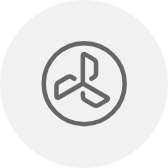
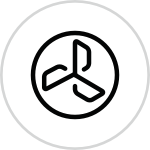
调整icon，和视觉提出的问题

diff --git a/quickapp-20190501/src/0xB1/B1_0TVN50R6/assets/index.less b/quickapp-20190501/src/0xB1/B1_0TVN50R6/assets/index.less
@@ -25,7 +25,7 @@
 				resize-mode: cover;
 			}
 			&_time{
-				// position: relative;
+				position: relative;
 				flex-direction: row;
 				justify-content: center;
 				width: 800px;
@@ -55,24 +55,25 @@
 				// margin-top: 100px;
 				text-align: center;
 				font-size: 260px;
+				// position: relative;
 			}
 			&_tag{
 				width: 60px;
 				font-size: 54px;
 				color: #FFFFFF;
-				margin-top: 120px;
-				margin-left: 20px;
-				// position: absolute;
+				top: 300px;
+				right: 160px;
+				position: absolute;
 			}
 			&_about{
 				width: 100%;
 				text-align: center;
 				font-size: 48px;
 				color: #FFFFFF;
-				margin-top: -150px;
+				margin-top: -220px;
 			}
 			&_done{
-				margin-top: 60px;
+				margin-top: 300px;
 				width: 100%;
 				text-align: center;
 				font-size: 144px;
@@ -88,7 +89,7 @@
 				text-align: center;
 				font-size: 54px;
 				color: #FFFFFF;
-				margin-top: 140px;
+				margin-top: 200px;
 			}
 			&_mode{
 				width: 100%;
@@ -101,12 +102,13 @@
 	}
 	.b0_ctr{
 		width: 100%;
-		height: 350px;
+		height: 342px;
 		background-color: #F9CB3D;
 		flex-direction: row;
 		justify-content: center;
+		padding-bottom: 60px;
 		&_text{
-			margin-top: 15px;
+			margin-top: 30px;
 			width: 100%;
 			text-align: center;
 			font-size: 36px;
@@ -115,14 +117,15 @@
 	}
 	.b0_contrl{
 		width: 100%;
-		height: 350px;
+		height: 342px;
 		// background-color: red;
 		flex-direction: row;
+		align-items: center;
 		justify-content: center;
 	}
 	.b0_contrl_btn{
 		width: 214px;
-		margin-top: 33px;
+		// margin-top: 60px;
 		flex-direction: column;
 		justify-content: center;
 		&_img{

diff --git a/quickapp-20190501/src/0xB2/B2_0TPN50R6/assets/index.less b/quickapp-20190501/src/0xB2/B2_0TPN50R6/assets/index.less
@@ -25,7 +25,7 @@
 				resize-mode: cover;
 			}
 			&_time{
-				// position: relative;
+				position: relative;
 				flex-direction: row;
 				justify-content: center;
 				width: 800px;
@@ -55,24 +55,25 @@
 				// margin-top: 100px;
 				text-align: center;
 				font-size: 260px;
+				// position: relative;
 			}
 			&_tag{
 				width: 60px;
 				font-size: 54px;
 				color: #FFFFFF;
-				margin-top: 120px;
-				margin-left: 20px;
-				// position: absolute;
+				top: 300px;
+				right: 160px;
+				position: absolute;
 			}
 			&_about{
 				width: 100%;
 				text-align: center;
 				font-size: 48px;
 				color: #FFFFFF;
-				margin-top: -150px;
+				margin-top: -220px;
 			}
 			&_done{
-				margin-top: 60px;
+				margin-top: 300px;
 				width: 100%;
 				text-align: center;
 				font-size: 144px;
@@ -88,7 +89,7 @@
 				text-align: center;
 				font-size: 54px;
 				color: #FFFFFF;
-				margin-top: 140px;
+				margin-top: 200px;
 			}
 			&_mode{
 				width: 100%;
@@ -101,12 +102,13 @@
 	}
 	.b0_ctr{
 		width: 100%;
-		height: 350px;
+		height: 342px;
 		background-color: #F9CB3D;
 		flex-direction: row;
 		justify-content: center;
+		padding-bottom: 60px;
 		&_text{
-			margin-top: 15px;
+			margin-top: 30px;
 			width: 100%;
 			text-align: center;
 			font-size: 36px;
@@ -115,14 +117,15 @@
 	}
 	.b0_contrl{
 		width: 100%;
-		height: 350px;
+		height: 342px;
 		// background-color: red;
 		flex-direction: row;
+		align-items: center;
 		justify-content: center;
 	}
 	.b0_contrl_btn{
 		width: 214px;
-		margin-top: 33px;
+		// margin-top: 60px;
 		flex-direction: column;
 		justify-content: center;
 		&_img{
